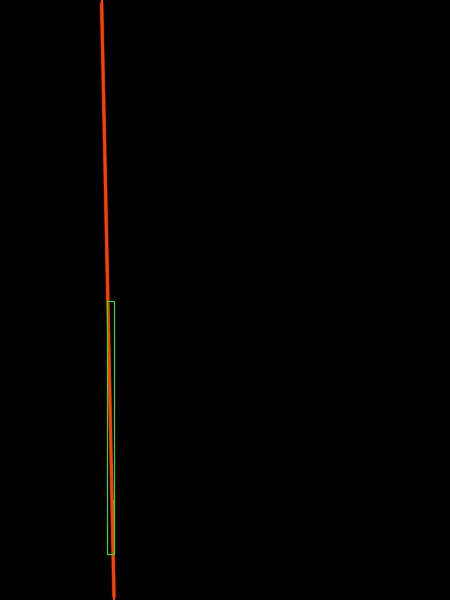
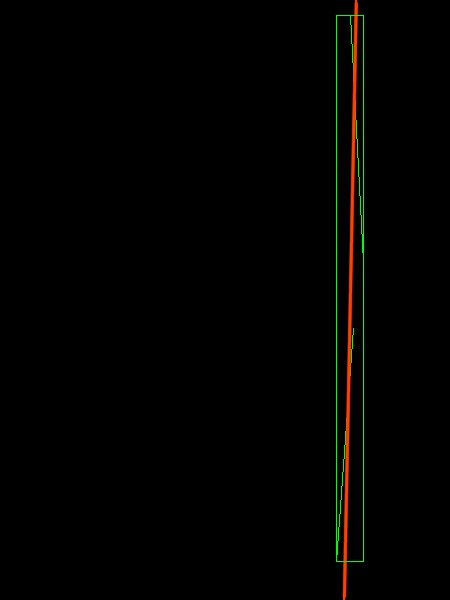
yep! smashed the bloody bug,
gonna have beers???

yep! may the force be with you

suck Shawn, suck

Changed region(s): [[0.7467, 0.0, 0.8089, 1.0], [0.2178, 0.0, 0.28, 1.0]]

diff --git a/ocr/longest_closed.cc b/ocr/longest_closed.cc
@@ -19,8 +19,6 @@
 #include "opencv2/imgproc/imgproc.hpp"
 #include <math.h>
 #include <iostream>
-#include <signal.h>
-#include <execinfo.h>
 
 using namespace cv;
 using namespace std;
@@ -47,6 +45,7 @@ void longest_closed()
    Mat mat = imread( "./pics/tj22.jpg");
 
    // cleanup some images...
+   remove("./img_pre/long4.jpg");
    remove("./img_pre/long5.jpg");
    remove("./img_pre/long6.jpg");
 
@@ -80,7 +79,7 @@ void longest_closed()
    // cv::findContours(edges, contours, CV_RETR_LIST, CV_CHAIN_APPROX_NONE);
    cv::findContours(edges, contours, CV_RETR_EXTERNAL, CV_CHAIN_APPROX_TC89_KCOS);
 
-   std::cout << "contours count: " <<  contours.size()  << std::endl;
+   // std::cout << "contours count: " <<  contours.size()  << std::endl;
 
    // DONE? - go on from checking if the >10000 is a single len
    double len;
@@ -91,20 +90,23 @@ void longest_closed()
    std::vector<std::vector<cv::Point> > contoursDraw2;
    Mat poly = Mat::zeros( mat.size(), CV_8UC3 );
 
-   // filters out lines shorter than 200 px, straightens lines with approxPoly to contoursDraw(2), pushes to contours_long if > 5000 px...
+   double min_line_length = max(mat.size().width, mat.size().height)/10.0;
+   int min_closed_line_len = (mat.size().width + mat.size().height);
+
+   // filters out lines shorter than 200 px, straightens lines with approxPoly to contoursDraw(2), pushes to contours_long if > 5000 px..
    for (int i=0; i < (int)contours.size(); i++){
 
      len = cv::arcLength(contours[i], true);
-     if(len < 200.0) continue;
+     if(len < min_line_length) continue;
      vec_len.push_back(len); /*not used for now*/
 
      cv::approxPolyDP(Mat(contours[i]), contoursDraw[i], 40, true);
      contoursDraw2.push_back(contoursDraw[i]);
 
      if(len>0){
-       std::cout << "closed line len...: " << len << std::endl;
+       // std::cout << "closed line len...: " << len << std::endl;
        contours_f1.push_back(contours[i]);
-       if(len>5000) contours_long.push_back(contoursDraw[i]);
+       if(len>min_closed_line_len) contours_long.push_back(contoursDraw[i]);
      }
    }
 
@@ -118,7 +120,7 @@ void longest_closed()
      _angle90_count += get_angles( contours_long[i], clong );
    }
 
-   std::cout << " \t\t ~~~ ``` _angle90_count:" << _angle90_count << std::endl;
+   // std::cout << " \t\t ~~~ ``` _angle90_count:" << _angle90_count << std::endl;
    // OK, this is the dotted line connection and expansion algorithm
    if ( _angle90_count<2 ) {
 
@@ -127,14 +129,14 @@ void longest_closed()
      Mat_<float> angles, angles0, angles1;
      Mat_<double> angle_centers;
      Mat_<int> labels = angle_clusters(contoursDraw2, angles, angle_centers); /*DONE - go on from here - add centers as ref param*/
-     std::cout << "angles ref: " << angles  << std::endl;
+     // std::cout << "angles ref: " << angles  << std::endl;
 
      std::vector< std::vector<cv::Point> > contours_l0;
      std::vector< std::vector<cv::Point> > contours_l1;
 
      for(int j=0; j<labels.rows; ++j){
 
-       std::cout << "l.cols: " << labels(j,0) << std::endl;
+       // std::cout << "l.cols: " << labels(j,0) << std::endl;
 
        if(labels(j,0)==0){
          contours_l0.push_back(contoursDraw2[j]);
@@ -145,7 +147,7 @@ void longest_closed()
        }
      } /*separate / divide into 2 groups with approximate 90 degree alignment */
 
-     std::cout << "angles0: " << angles0 << ',' << "angles1: " << angles1 << "c0 and c1 sizes: " << contours_l0.size() << ',' << contours_l1.size()<< ',' <<  angle_centers(0,1) << std::endl;
+     // std::cout << "angles0: " << angles0 << ',' << "angles1: " << angles1 << "c0 and c1 sizes: " << contours_l0.size() << ',' << contours_l1.size()<< ',' <<  angle_centers(0,1) << std::endl;
 
      // TODO - if there is only 1 line in ether contours_l0 or contours_l1, the coord_clusters crashes - add trace log info and implement also for a single
      // DONE - dynamic here for 0,1 ...
@@ -196,7 +198,7 @@ void filter_points_if_needed (   std::vector<cv::Point> &circles, std::vector<cv
   cv::RotatedRect rect_minAreaRect = minAreaRect(approx);
   double area1 = contourArea(approx), area_minAreaRect;
   area_minAreaRect = rect_minAreaRect.size.width * rect_minAreaRect.size.height;
-  std::cout << "area: " << area1 << " ,minAreaRect area:" << area_minAreaRect  << std::endl;
+  // std::cout << "area: " << area1 << " ,minAreaRect area:" << area_minAreaRect  << std::endl;
   // DONE - go on from here... - divide the area (width * height of the minArea) and then divide by the contourArea - and see if result is (>2,3,4) larger than say 2...
   bool is_bouble_hollow_shape = (area_minAreaRect/area1)>3.0;
 
@@ -214,7 +216,7 @@ void filter_points_if_needed (   std::vector<cv::Point> &circles, std::vector<cv
   Mat llabels, centers;
   std::vector<int> labels_dummy;
   kmeans(circle_points, clusterCount, llabels, TermCriteria(CV_TERMCRIT_ITER|CV_TERMCRIT_EPS, 100, 0.0001), attempts, KMEANS_PP_CENTERS, centers );
-  std::cout << "\n\n ~~~~ filter points ~~~~ \n\n labels: " << llabels << "centers" << centers << "circle_points" << circle_points << std::endl;
+  // std::cout << "\n\n ~~~~ filter points ~~~~ \n\n labels: " << llabels << "centers" << centers << "circle_points" << circle_points << std::endl;
 
   std::vector<cv::Point> circles_filtered;
   Mat_<int> labels = llabels;
@@ -235,7 +237,7 @@ int get_angles ( std::vector<cv::Point> approx, Mat drawing ) {
 
   // Number of vertices of polygonal curve
   int vtc = approx.size();
-  std::cout << "vtc: " << vtc << std::endl;
+  // std::cout << "vtc: " << vtc << std::endl;
 
   // DONE - go on and crack the cos/degree thing...
   // Get the degree (in cosines) of all corners
@@ -248,7 +250,7 @@ int get_angles ( std::vector<cv::Point> approx, Mat drawing ) {
   for ( int j = 1; j < vtc+1; j++ ) {
 
     (j==1 && (j_mid = vtc-1)) || (j_mid=j-2); /*6 nov 2015, Albert, Shawn 1 month old - fixed net/github script - go figure how come it's an educated world of assholes, writing un-perfect scripts */
-    std::cout << "approx indexes: " << j%vtc << ',' << j_mid << ',' << j-1 << std::endl;
+    // std::cout << "approx indexes: " << j%vtc << ',' << j_mid << ',' << j-1 << std::endl;
     ang = ang_deg = angle(approx[j%vtc], approx[j_mid], approx[j-1]);
     // cos.push_back(ang);
     // ang_deg = abs(ang*180/CV_PI);
@@ -260,7 +262,7 @@ int get_angles ( std::vector<cv::Point> approx, Mat drawing ) {
       // std::cout << "drawing circles... "  << std::endl;
     }
 
-    std::cout << "angle is: " << ang_deg << ", " << ang  << std::endl;
+    // std::cout << "angle is: " << ang_deg << ", " << ang  << std::endl;
   }
 
   double diag = 0;
@@ -268,12 +270,12 @@ int get_angles ( std::vector<cv::Point> approx, Mat drawing ) {
 
   if ( angle90_count ) {
 
-    std::cout << "diag is: " << diag << std::endl;
+    // std::cout << "diag is: " << diag << std::endl;
 
     if(diag>100){
       filter_points_if_needed(circles, approx);
       int clen = circles.size();
-      std::cout << "OK, drawing circles... " << clen << std::endl;
+      // std::cout << "OK, drawing circles... " << clen << std::endl;
       for ( int j=0; j<clen; ++j ) {
         cv::circle( drawing, circles[j], 50,  cv::Scalar(50,0,255) );
       }
@@ -286,7 +288,7 @@ int get_angles ( std::vector<cv::Point> approx, Mat drawing ) {
 
 void get_closest_diagonal ( Rect rect,  Mat_<float> angles, std::vector<cv::Point> points, Mat &pic ) {
 
-  std::cout << "avg angles: " << mean(angles) << std::endl;
+  // std::cout << "avg angles: " << mean(angles) << std::endl;
 
   // vx,vy,x,y
   // (vx, vy, x0, y0), where (vx, vy) is a normalized vector collinear to the line and (x0, y0) is a point on the line
@@ -306,7 +308,7 @@ void get_closest_diagonal ( Rect rect,  Mat_<float> angles, std::vector<cv::Poin
   x1 = x + vx*(4*pic.cols);
   y1 = y + vy*(4*pic.rows);
 
-  std::cout << "vec4f: " << line_result << ',' << "points: " << points << "line points" << Point(x0,y0)  << ',' << Point(x1,y1) << ',' << pic.cols << ',' << pic.rows  <<  std::endl;
+  // std::cout << "vec4f: " << line_result << ',' << "points: " << points << "line points" << Point(x0,y0)  << ',' << Point(x1,y1) << ',' << pic.cols << ',' << pic.rows  <<  std::endl;
 
   cv::line ( pic, Point(x0, y0), Point(x1, y1), cv::Scalar(0,64,255), 2, CV_AA );
 }
@@ -335,7 +337,7 @@ Mat coord_clusters ( Size size, std::vector < std::vector<cv::Point> > contours,
   int attempts = 1;
   Mat llabels, centers;
   kmeans(points, clusterCount, llabels, TermCriteria(CV_TERMCRIT_ITER|CV_TERMCRIT_EPS, 100, 0.0001), attempts, KMEANS_PP_CENTERS, centers );
-  std::cout << "\n\n ~~~~ coord clusters ~~~~ \n\n labels: is vert: "<< is_vert << '\n' << llabels << "centers" << centers << "points" << points << std::endl;
+  // std::cout << "\n\n ~~~~ coord clusters ~~~~ \n\n labels: is vert: "<< is_vert << '\n' << llabels << "centers" << centers << "points" << points << std::endl;
 
   std::vector < std::vector<cv::Point> > contours_l0, contours_l1;
   Mat l0 = Mat::zeros( size, CV_8UC3 ), l1 = Mat::zeros( size, CV_8UC3 );
@@ -364,7 +366,7 @@ Mat coord_clusters ( Size size, std::vector < std::vector<cv::Point> > contours,
     points1.push_back(contours_l1[i][1]);
   }
 
-  std::cout << "points0:" << points0  << std::endl;  std::cout << "points1:" << points1  << std::endl;
+  // std::cout << "points0:" << points0  << std::endl;  std::cout << "points1:" << points1  << std::endl;
 
   Rect r0 = cv::boundingRect(points0);  Rect r1 = cv::boundingRect(points1);
 
@@ -404,7 +406,9 @@ Mat angle_clusters( std::vector < std::vector<cv::Point> > contours, Mat_<float>
   Mat_<int> labels2 = labels;
 
   double angle_centre_diff = abs(centers(0,0)-centers(1,0));
-  if ( angle_centre_diff > 170.0 || angle_centre_diff<5.0 ){
+
+  std::cout << "centers: " << centers <<  "angle_centre_diff: " << angle_centre_diff  << std::endl;
+  if ( angle_centre_diff > 170.0 || angle_centre_diff<10.0 ){
     for ( int j=0; j<labels.rows; ++ j ) {
       labels2(j,0) = 0;
     }
@@ -464,22 +468,9 @@ void cosine_longest ( std::vector < std::vector<cv::Point> > contours ) {
 }
 
 // DONE go on from doing another simple loop, just to calc the angles and then try the kmean clustering... yep! may the force be with you
-
-void handler(int sig) {
-  void *array[10];
-  size_t size;
-  // get void*'s for all entries on the stack
-  size = backtrace(array, 10);
-  // print out all the frames to stderr
-  fprintf(stderr, "Error: signal %d:\n", sig);
-  backtrace_symbols_fd(array, size, STDERR_FILENO);
-  exit(1);
-}
-
 int main ( int argc, char** argv )
 {
-  // signal(SIGSEGV, handler);   // install our handler
-  std::cout << "argc: " << argc << ',' << "argv (pointer): " << argv << std::endl;
+  // std::cout << "argc: " << argc << ',' << "argv (pointer): " << argv << std::endl;
   longest_closed();
   return 0;
 }
